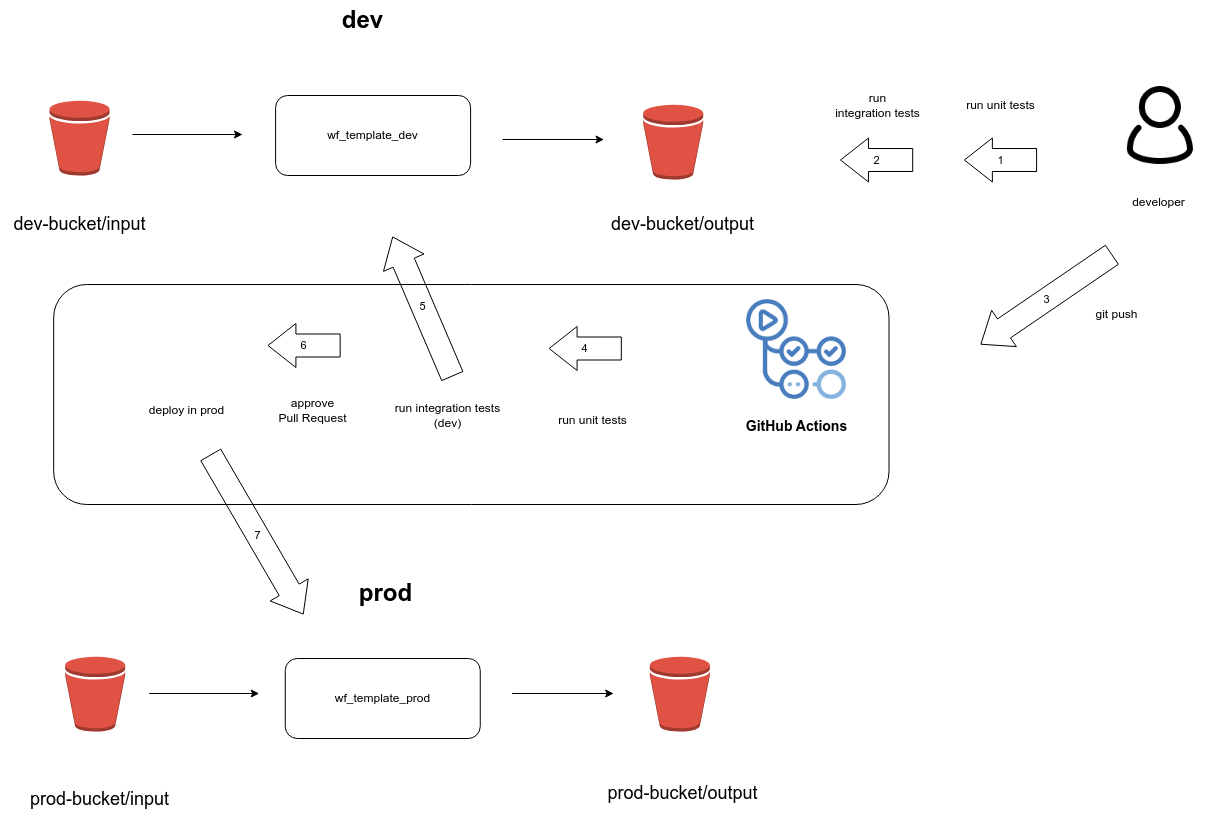
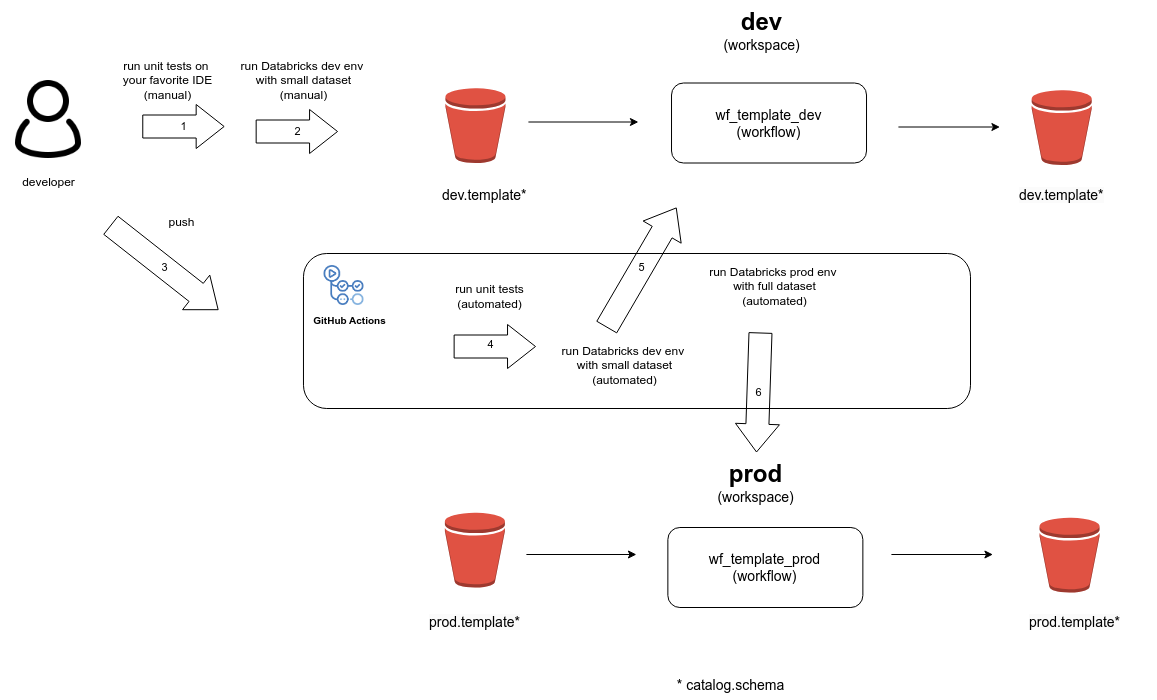
defines default_catalog and default schema for workflow and tasks

diff --git a/tests/template_test.py b/tests/template_test.py
@@ -31,23 +31,20 @@ def df_in(spark) -> DataFrame:
 @pytest.fixture
 def config() -> TaskConfig:
 
-   return TaskConfig(Namespace(task='task1', env='dev', input='2024-01-01', output=None, skip=False, debug=True))
+   return TaskConfig(Namespace(task='task1', env='local', default_catalog='dev', default_schema='template', skip=False, debug=True))
 
 def test_arg_parser():
 
    parser = arg_parser()
 
-   args = parser.parse_args(["--task=task1", "--env=dev","--input=test", "--skip", "--debug"])
+   args = parser.parse_args(["--task=task1", "--env=dev","--default_catalog=dev", "--default_schema=template", "--skip", "--debug"])
 
-   assert args == Namespace(task='task1', env='dev', input='test', output=None, skip=True, debug=True)
+   assert args == Namespace(task='task1', env='dev', input_bucket=None, output_bucket=None, 
+                            default_catalog='dev', default_schema='template', skip=True, debug=True)
 
 @pytest.mark.parametrize("args, expected_output", [
-   (Namespace(task='task1', env='dev', input='2024-01-01', output=None, skip=False, debug=True),
-      {'input': 's3://dev-dbtemplate123/2024-01-01/', 'output':'s3://dev-dbtemplate123/2024-01-01/', 'skip':False, 'debug':True}),
-   (Namespace(task='task2', env='prod', input='2024-01-02', output='test', skip=False, debug=False),
-      {'input': 's3://prod-dbtemplate123/2024-01-02/', 'output':'s3://prod-dbtemplate123/test/', 'skip':False, 'debug':False}),
-   (Namespace(task='task3', env='prod', input='2024-01-03', output=None, skip=True, debug=False), 
-      {'input': 's3://prod-dbtemplate123/2024-01-03/', 'output':'s3://prod-dbtemplate123/2024-01-03/', 'skip':True, 'debug':False})
+   (Namespace(task='task1', env='dev', skip=False, debug=True, default_schema='dev', default_catalog='template'),
+      {'task':'task1', 'env':'dev', 'skip':False, 'debug':True, 'default_schema':'dev', 'default_catalog':'template'}),
 ])
 def test_config(args, expected_output):
 

diff --git a/src/template/config.py b/src/template/config.py
@@ -3,27 +3,22 @@ import argparse
 class Config:
 
     params = dict()
-    args = None
 
     def __init__(self, args):
         
         print("args: " + str(args))
 
-        if args.output == None:
-            output = args.input
-        else:
-            output = args.output
-
-        self.args = args
-        self.params.update({"input" : "s3://" + args.env + "-dbtemplate123/"  + args.input + "/"})
-        self.params.update({"output" : "s3://" + args.env + "-dbtemplate123/"  + output + "/"})
+        self.params.update({"task" : args.task})
         self.params.update({"skip" : args.skip})
         self.params.update({"debug" : args.debug})
+        self.params.update({"env" : args.env})
+        self.params.update({"default_catalog" : args.default_catalog})
+        self.params.update({"default_schema" : args.default_schema})
 
         print("Setting task configs... ")
         for key, value in self.params.items():
             print(f"{key}: {value}")
-    
+
     def get_value(self, key):
         
         return self.params[key]

diff --git a/src/template/baseTask.py b/src/template/baseTask.py
@@ -11,4 +11,21 @@ class BaseTask:
         self.spark = spark
         self.config = config
 
-   
+        env = self.config.get_value("env")
+
+        if not env == "local":
+
+            catalog = self.config.get_value("default_catalog")
+            schema = self.config.get_value("default_schema")
+
+            print("Creating catalog '" + catalog + "' ..." )
+
+            self.spark.sql("CREATE CATALOG IF NOT EXISTS " + catalog)
+
+            self.spark.sql("USE CATALOG " + catalog)
+
+            print("Creating schema '" + schema + "' ..." )
+            
+            self.spark.sql("CREATE SCHEMA IF NOT EXISTS " + schema)
+
+            self.spark.sql("USE SCHEMA " + schema)

diff --git a/src/template/main.py b/src/template/main.py
@@ -11,9 +11,11 @@ def arg_parser():
 
     parser = argparse.ArgumentParser()
         
-    parser.add_argument("--env", choices=["dev", "prod"])
-    parser.add_argument("--input")
-    parser.add_argument("--output")  
+    parser.add_argument("--env", required=True, choices=["dev", "prod"])
+    parser.add_argument("--default_schema")
+    parser.add_argument("--default_catalog")
+    parser.add_argument("--input_bucket")
+    parser.add_argument("--output_bucket")
     parser.add_argument("--task", required=True, choices=["task1", "task2"])
     parser.add_argument("--skip", action='store_true')
     parser.add_argument("--debug", action='store_true')

diff --git a/src/template/task1.py b/src/template/task1.py
@@ -25,14 +25,6 @@ class Task1(BaseTask):
 
         # prepare a simple input table
 
-        self.spark.sql("CREATE CATALOG IF NOT EXISTS template")
-
-        self.spark.sql("USE CATALOG template")
-
-        self.spark.sql("CREATE SCHEMA IF NOT EXISTS test")
-
-        self.spark.sql("USE SCHEMA test")
-
         df = self.spark.createDataFrame([], schema=schema_template)
 
         df.write.mode("overwrite").saveAsTable("table1")

diff --git a/src/template/task2.py b/src/template/task2.py
@@ -32,10 +32,6 @@ class Task2(BaseTask):
         return df.union(df_new)    
     
     def run(self):
-
-        self.spark.sql("USE CATALOG template")
-
-        self.spark.sql("USE SCHEMA test")
       
         df_in = self.spark.read.table("table2")
 

diff --git a/README.md b/README.md
@@ -46,6 +46,14 @@ This project template demonstrates how to:
 
 <br>
 
+### CI/CD pipeline
+
+<br>
+
+<img src="docs/ci_cd.png"  width="70%" height="70%">
+
+<br>
+
 
 # Instructions
 
@@ -78,21 +86,15 @@ Configure [Github Actions repository secrets](https://docs.github.com/en/actions
 
 And now you can code the transformations for each task and run unit and integration tests.
 
-The below diagram illustrates the CI/CD pipeline for this project.
-
-<br>
-
-<img src="docs/ci_cd.png"  width="70%" height="70%">
-
-<br>
-
 # Task parameters
 
 <br>
 
 - **task** (required) - determines the current task to be executed.
 - **env** (required) - determines the AWS account where the job is running. 
-- **input** (required) - determines the bucket to be used as input.
-- **output** (optional) - determines the bucket to be used as output. If omitted, uses the value provided on **input** parameter.
 - **skip** (optional) - determines if the current task should be skipped.
 - **debug** (optional) - determines if the current task should go through debug conditional.
+- **input_bucket** (optional) - determines the bucket to be used as input.
+- **output_bucket** (optional) - determines the bucket to be used as output.
+- **default_catalog** (optional) - determines the default catalog to be used.
+- **default_schema** (optional) - determines the default schema to be used
